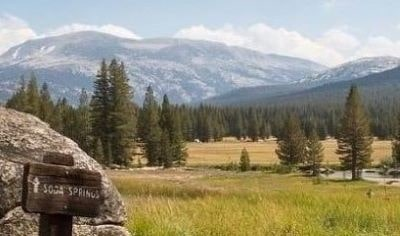
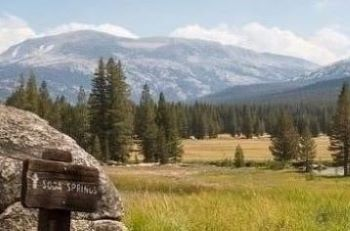
kjhgfc

diff --git a/lesson11/index.html b/lesson11/index.html
@@ -43,8 +43,8 @@
                 dumping'</h3>
             <h4>By Travis Fedschun | Fox News</h4>
             <figure>
-                <img src="images/pic1.jpg" alt="Heavy snow fell in Idaho on Wednesday morning">
-                <figcaption>Heavy snow fell in Idaho on Wednesday morning, cuasing some vehicles to get stuck as up to
+                <img class="mainimg" src="images/pic1.jpg" alt="Heavy snow fell in Idaho on Wednesday morning">
+                <figcaption class="mainimg">Heavy snow fell in Idaho on Wednesday morning, cuasing some vehicles to get stuck as up to
                     10
                     inches of snow was reported in some locations. (Blaine County Sheriff)</figcaption>
             </figure>

diff --git a/lesson11/preston.html b/lesson11/preston.html
@@ -89,7 +89,7 @@
         <article>
             <h3>Burn restrictions in effect due to degraded air quality</h3>
             <h4>Herald-Journal | 06-21</h4>
-            <img src="images/campfire.jpg" alt="Campfire">
+            <img id="particleimg" src="images/campfire.jpg" alt="Campfire">
 
             <p>The Idaho Department of Environmental Quality (DEQ) has issued an Air Quality Advisory to notify
                 residents of Franklin County of degraded air quality for Jun. 21, until 11 a.m. Jul. 22.. Due to a

diff --git a/lesson11/css/small.css b/lesson11/css/small.css
@@ -207,8 +207,14 @@ article h3 {
 }
 
 article img {
-    max-width: 400px;
+    max-width: 300px;
     padding: 2%;
+    display: block;
+    margin: auto;
+}
+.mainimg {
+    float: none;
+    max-width: 300px;
 }
 
 article p {

diff --git a/lesson11/css/large.css b/lesson11/css/large.css
@@ -25,6 +25,10 @@ nav ul.hide {
     justify-content: space-around; 
  }
 
+ article img {
+     max-width: 400px;
+ }
+
 .gallery {
     grid-template-columns: 1fr 1fr 1fr;
 }

diff --git a/lesson11/css/medium.css b/lesson11/css/medium.css
@@ -23,6 +23,7 @@ header {
 
 article img {
     float: right;
+    max-width: 300px;
 }
 
 .gallery {
